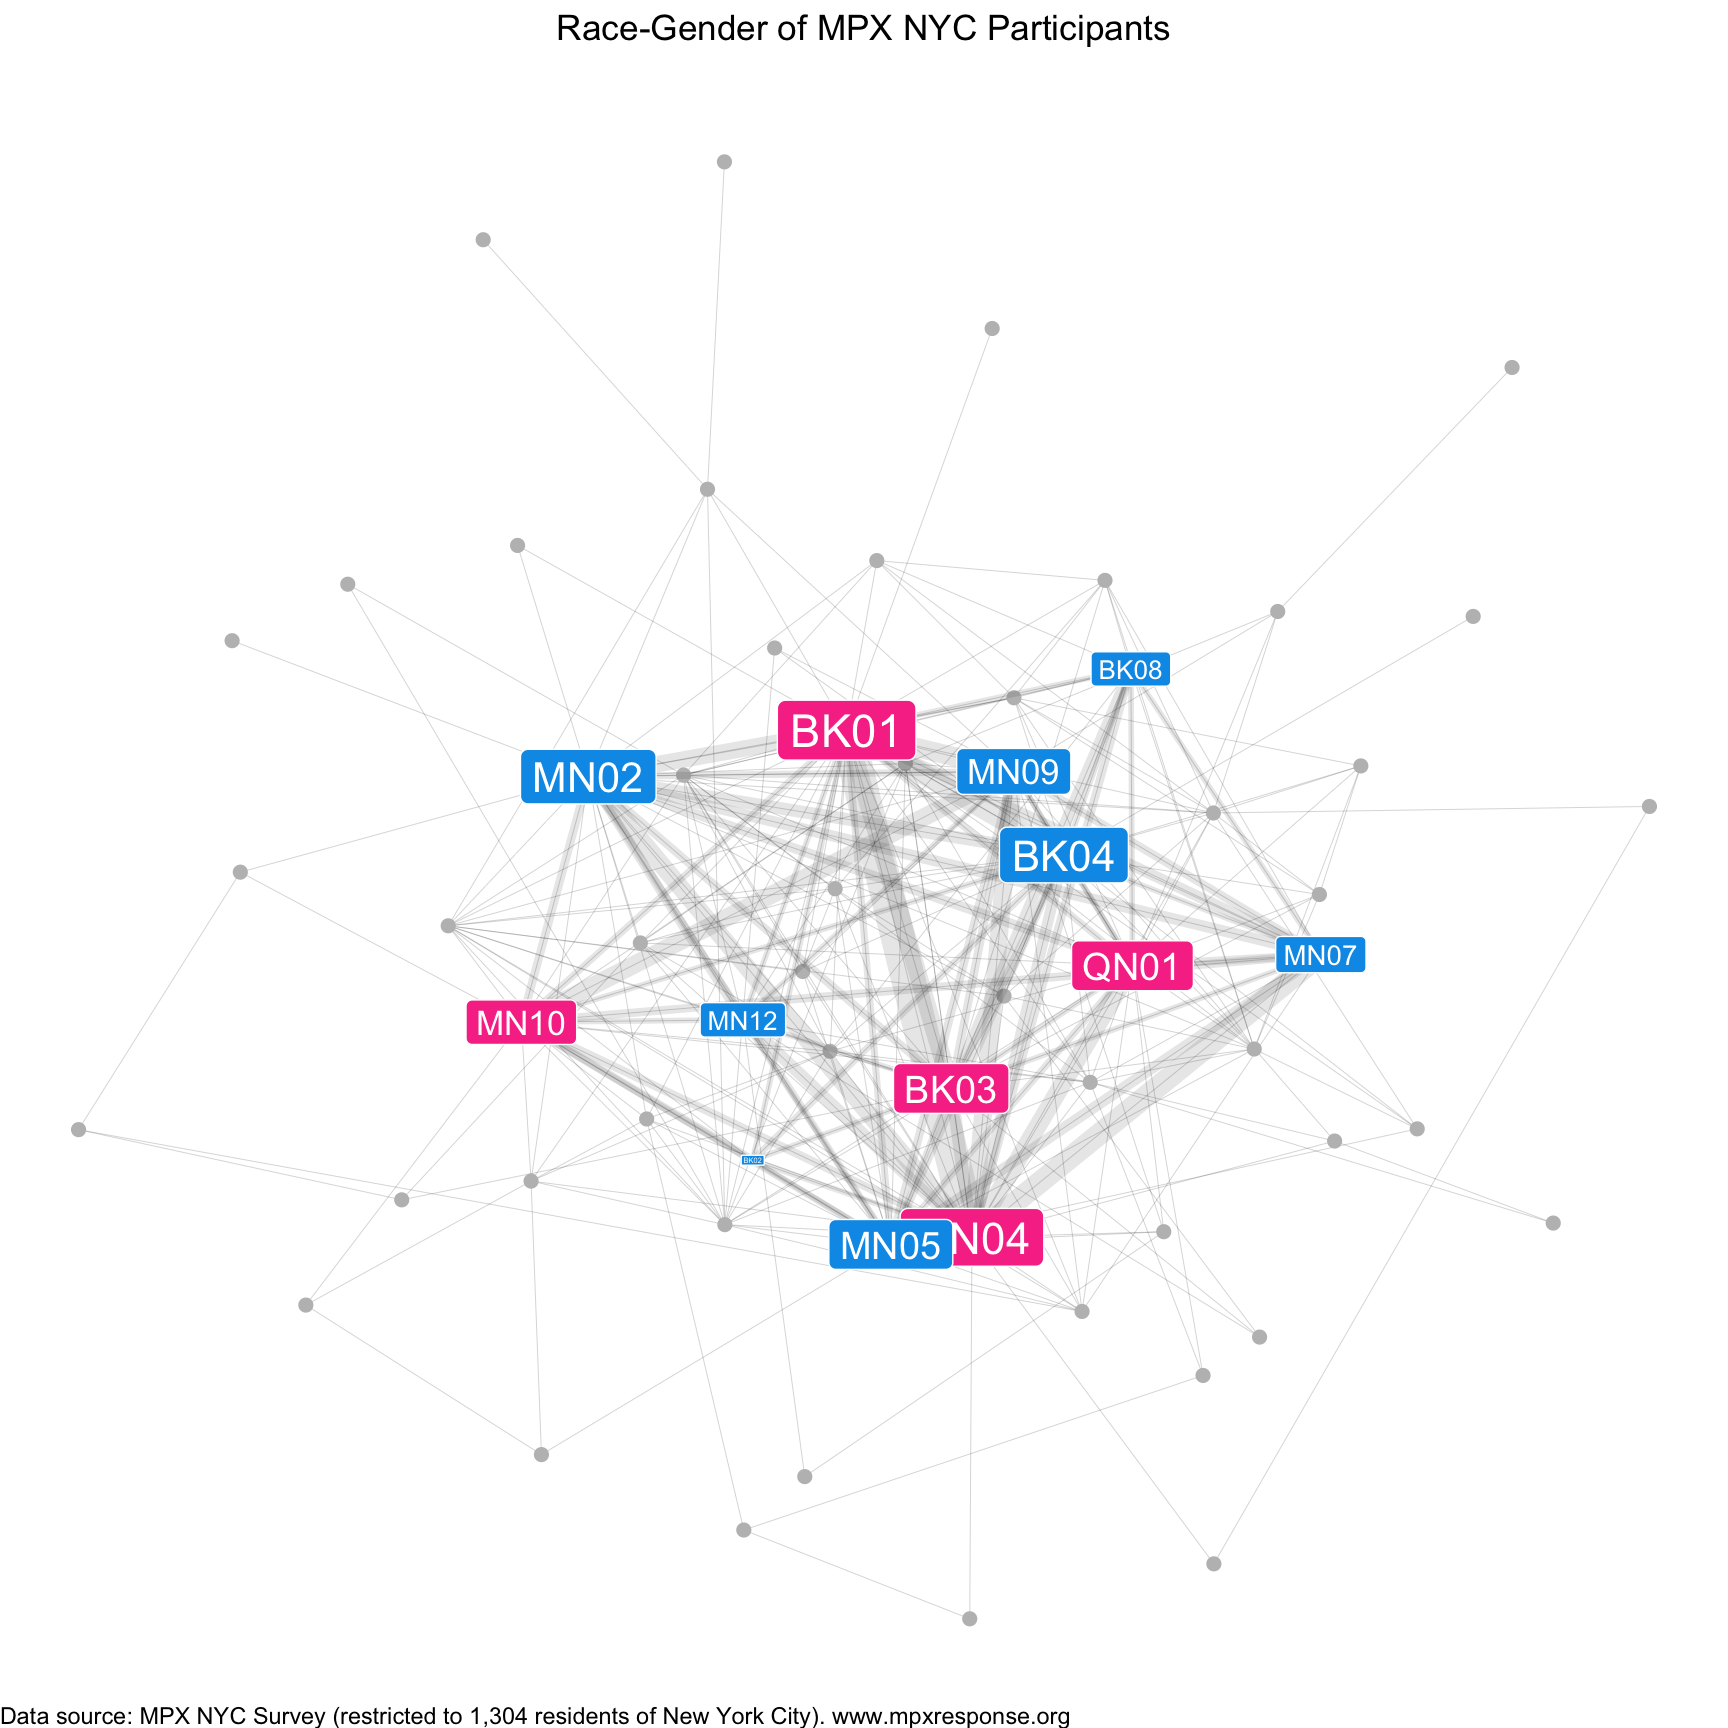
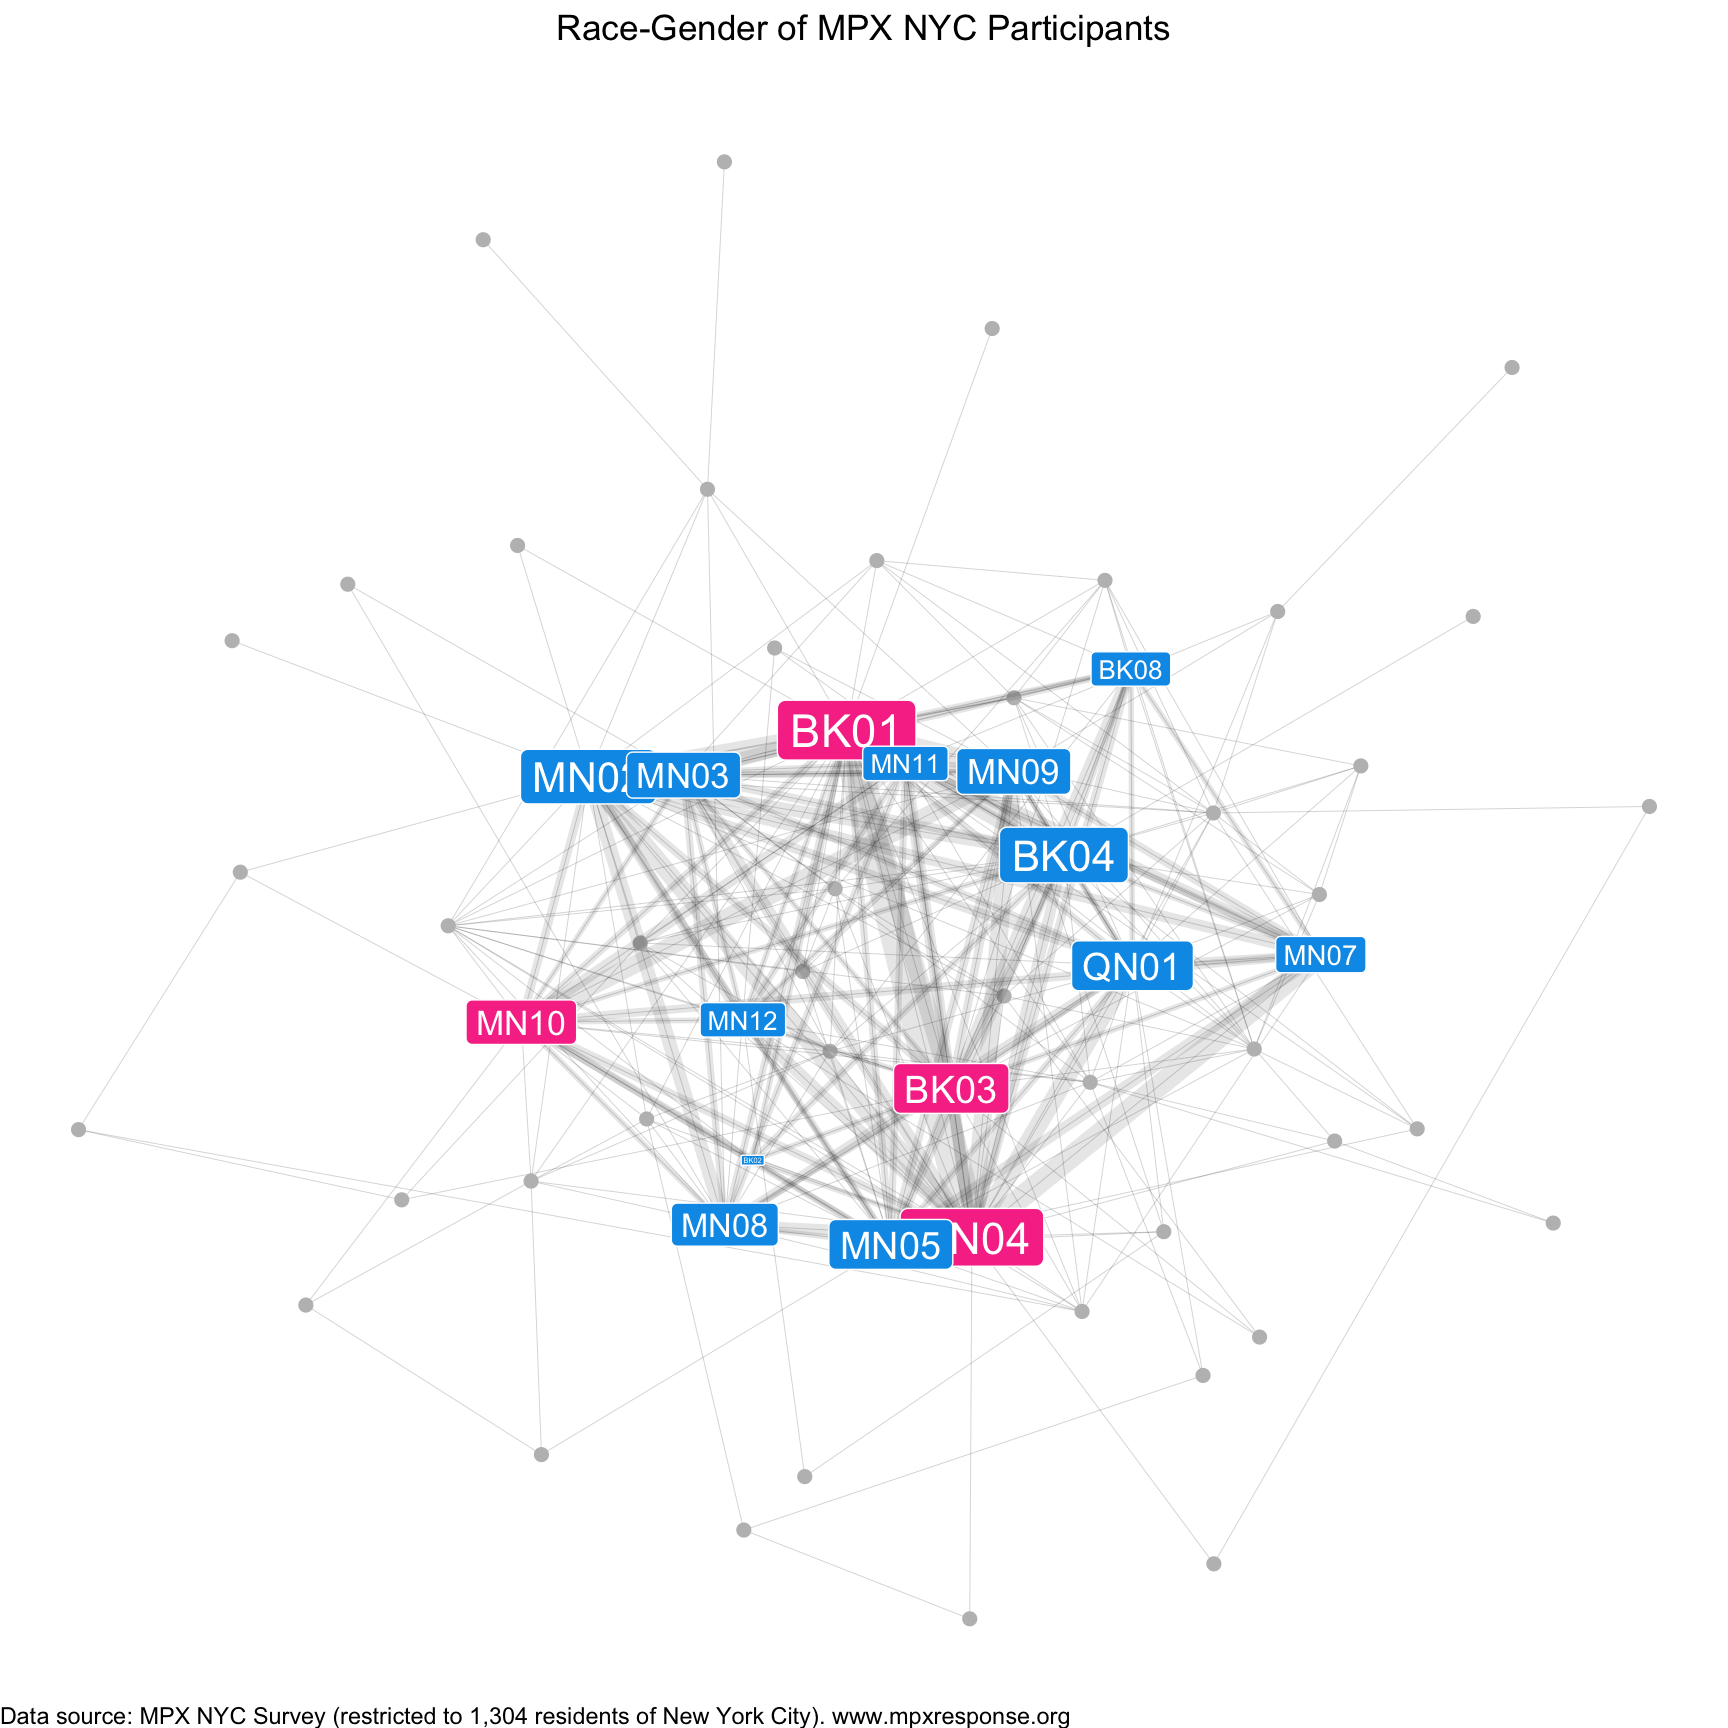
commit

diff --git a/tables_figures.html b/tables_figures.html
@@ -5819,7 +5819,7 @@ Keletso Makofane
 <td style="text-align: right;">0.0506135</td>
 <td style="text-align: right;">0.3719325</td>
 <td style="text-align: right;">5</td>
-<td style="text-align: left;">Group A</td>
+<td style="text-align: left;">Group B</td>
 <td style="text-align: left;">QN01</td>
 </tr>
 <tr class="even">
@@ -6017,7 +6017,7 @@ Keletso Makofane
 <td style="text-align: right;">0.0237730</td>
 <td style="text-align: right;">0.6894172</td>
 <td style="text-align: right;">14</td>
-<td style="text-align: left;">Group C</td>
+<td style="text-align: left;">Group B</td>
 <td style="text-align: left;">MN08</td>
 </tr>
 <tr class="odd">
@@ -6039,7 +6039,7 @@ Keletso Makofane
 <td style="text-align: right;">0.0207055</td>
 <td style="text-align: right;">0.7101227</td>
 <td style="text-align: right;">15</td>
-<td style="text-align: left;">Group C</td>
+<td style="text-align: left;">Group B</td>
 <td style="text-align: left;">MN03</td>
 </tr>
 <tr class="even">
@@ -6061,7 +6061,7 @@ Keletso Makofane
 <td style="text-align: right;">0.0191718</td>
 <td style="text-align: right;">0.7292945</td>
 <td style="text-align: right;">16</td>
-<td style="text-align: left;">Group C</td>
+<td style="text-align: left;">Group B</td>
 <td style="text-align: left;">MN11</td>
 </tr>
 <tr class="odd">
